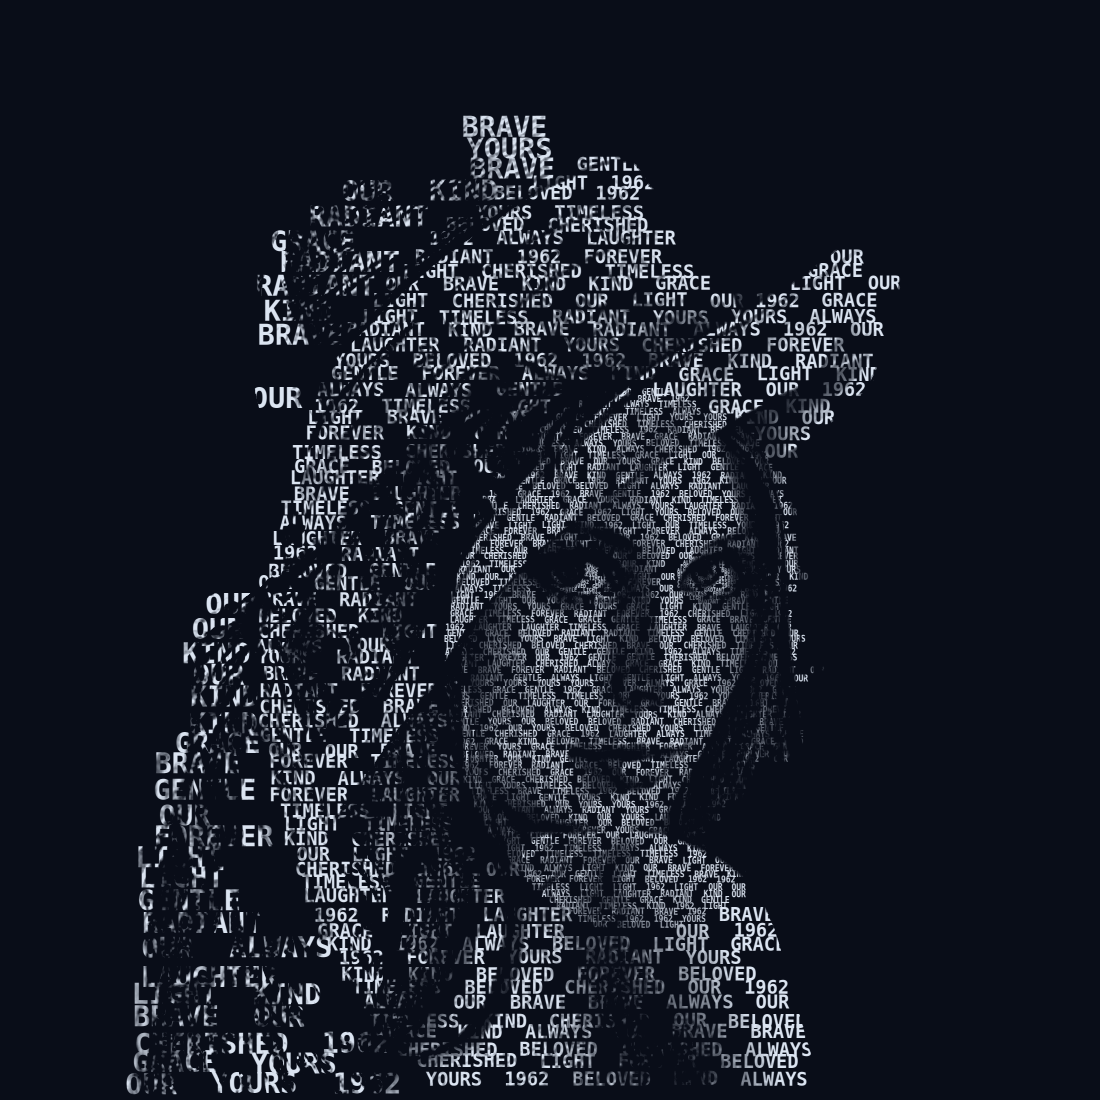
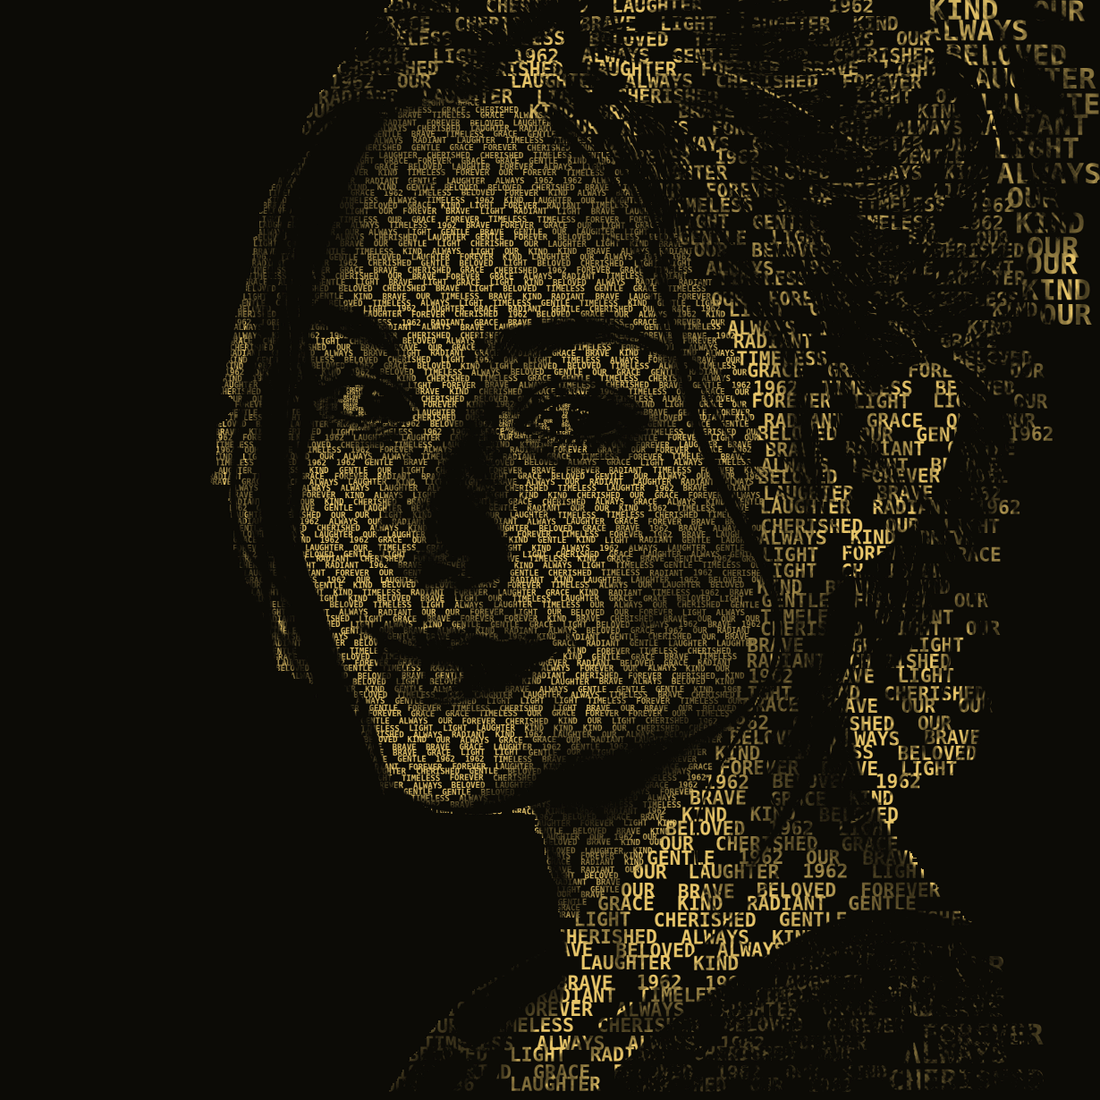
marketing: real gold-on-black hero, sample gallery, stronger CTAs
Replaces the placeholder hero pair with a true gold_noir (gold-on-black)
render generated from a synthetic source face, matched pixel-for-pixel to
the "before" photo at 1100x1100; quantised to ~460KB. Swaps the fabricated
testimonial cards for a "One photo, every style" sample gallery (sepia/Words,
burgundy/Words, navy/Message) that doubles as product proof. Surfaces "free
to create" in the nav + hero CTAs with price-confidence microcopy, adds a
post-gallery CTA, and gives the before/after slider a one-time auto-nudge
(respecting prefers-reduced-motion) so visitors notice it's draggable. Drops
the raw source face from the web tree.

https://claude.ai/code/session_01HgiQ2f3KUSvk9A2V5YSHrv

diff --git a/typography_engine/marketing/index.html b/typography_engine/marketing/index.html
@@ -85,6 +85,8 @@ footer{border-top:1px solid var(--line);padding:30px 0;color:var(--muted);font-s
 .ba-zoom:hover{background:rgba(11,16,32,.88)}
 .ba-cap{font-size:14px;color:var(--muted);margin-top:12px;text-align:center}
 .ba-cap b{color:var(--ink)}.ba-cap .w{color:var(--navy);font-weight:600}
+.cta-note{font-size:14px;color:var(--muted);margin-top:10px}
+.gallery .shot{margin:0}.gallery .shot img{width:100%;height:auto;display:block;border-radius:14px;box-shadow:0 10px 30px rgba(20,30,60,.12)}.gallery figcaption{font-size:13px;color:var(--muted);margin-top:9px;text-align:center}
 .ba-lb{position:fixed;inset:0;background:rgba(8,11,20,.93);display:none;align-items:center;justify-content:center;z-index:90;padding:20px;cursor:zoom-out}
 .ba-lb.open{display:flex}
 .ba-lb img{max-width:96vw;max-height:92vh;border-radius:10px;box-shadow:0 20px 70px rgba(0,0,0,.5)}
@@ -96,16 +98,17 @@ footer{border-top:1px solid var(--line);padding:30px 0;color:var(--muted);font-s
   <nav>
     <a class="brand" href="/">Typortrait</a>
     <span class="navlinks"><a href="#how">How it works</a><a href="#pricing">Pricing</a><a href="#faq">FAQ</a></span>
-    <a class="btn" href="https://app.typortrait.com">Create yours</a>
+    <a class="btn" href="https://app.typortrait.com">Create yours free</a>
   </nav>
   <header class="hero">
     <div>
       <h1>Someone you love, made from your words.</h1>
       <p class="lead">Typortrait turns a photo and the words that matter — a name, the traits you love, a date, even a whole letter — into a striking portrait composed entirely of text.</p>
       <div class="cta-row">
-        <a class="btn" href="https://app.typortrait.com">Create your portrait</a>
+        <a class="btn" href="https://app.typortrait.com">Create yours free &rarr;</a>
         <a class="btn alt" href="#how">See how it works</a>
       </div>
+      <p class="cta-note">Free to create &amp; preview &middot; $14.99 only if you download &middot; No design skills needed</p>
     </div>
     <figure class="hero-ba">
       <div class="ba-frame" id="baFrame">
@@ -156,15 +159,15 @@ footer{border-top:1px solid var(--line);padding:30px 0;color:var(--muted);font-s
     </div>
   </section>
 
-  <section id="love">
-    <h2>Loved by gift-givers</h2>
-    <p class="sub">A keepsake built from someone’s own words.</p>
-    <!-- EDIT: replace these with REAL customer quotes before launch. Do not keep placeholders live. -->
-    <div class="cards">
-      <div class="card quote"><p>“I gave it to my mom for her 70th and she cried — it’s her, in all the words we’d use to describe her.”</p><cite>— Placeholder, replace me</cite></div>
-      <div class="card quote"><p>“We turned our wedding vows into a portrait. It hangs in our hallway and everyone asks about it.”</p><cite>— Placeholder, replace me</cite></div>
-      <div class="card quote"><p>“Made one of our dog from the words the kids use for him. Absolutely perfect.”</p><cite>— Placeholder, replace me</cite></div>
+  <section id="examples">
+    <h2>One photo, every style</h2>
+    <p class="sub">The same face, a few different looks — for anniversaries, memorials, weddings, birthdays and more.</p>
+    <div class="cards gallery">
+      <figure class="shot"><img src="/sample-1.jpg" width="720" height="720" loading="lazy" alt="Typortrait sample — sepia, Words style" /><figcaption>Sepia &middot; Words</figcaption></figure>
+      <figure class="shot"><img src="/sample-2.jpg" width="720" height="720" loading="lazy" alt="Typortrait sample — burgundy, Words style" /><figcaption>Burgundy &middot; Words</figcaption></figure>
+      <figure class="shot"><img src="/sample-3.jpg" width="720" height="720" loading="lazy" alt="Typortrait sample — navy, Message style" /><figcaption>Navy &middot; Message</figcaption></figure>
     </div>
+    <div style="text-align:center;margin-top:24px"><a class="btn" href="https://app.typortrait.com">Make one like this &rarr;</a></div>
   </section>
   <div class="band">
     <h2>Make one in minutes</h2>
@@ -194,16 +197,22 @@ footer{border-top:1px solid var(--line);padding:30px 0;color:var(--muted);font-s
       bimg=document.getElementById('baBefore'),
       div=document.getElementById('baDivider'),
       after=document.getElementById('baAfter');
-  var drag=false;
+  var drag=false, interacted=false, nudged=false;
   function size(){ bimg.style.width=frame.clientWidth+'px'; }
   function setPos(p){ p=Math.max(0,Math.min(100,p)); wrap.style.width=p+'%'; div.style.left=p+'%'; }
   function move(e){ var r=frame.getBoundingClientRect(); var cx=e.touches?e.touches[0].clientX:e.clientX; setPos((cx-r.left)/r.width*100); }
-  frame.addEventListener('pointerdown',function(e){drag=true;move(e);});
+  function tween(to,ms){ var from=parseFloat(wrap.style.width)||50, st=performance.now();
+    (function f(now){ if(drag)return; var k=Math.min(1,(now-st)/ms); var e=k<.5?2*k*k:1-Math.pow(-2*k+2,2)/2; setPos(from+(to-from)*e); if(k<1)requestAnimationFrame(f); })(st); }
+  function nudge(){ if(nudged)return; nudged=true;
+    if(window.matchMedia&&matchMedia('(prefers-reduced-motion: reduce)').matches)return;
+    setTimeout(function(){ if(!interacted)tween(64,600); },700);
+    setTimeout(function(){ if(!interacted)tween(50,600); },1500); }
+  frame.addEventListener('pointerdown',function(e){drag=true;interacted=true;move(e);});
   window.addEventListener('pointermove',function(e){if(drag)move(e);});
   window.addEventListener('pointerup',function(){drag=false;});
   window.addEventListener('resize',size);
   if(after.complete){size();} else {after.addEventListener('load',size);}
-  size(); setPos(50);
+  size(); setPos(50); nudge();
   var lb=document.getElementById('baLb'), lbImg=document.getElementById('baLbImg'), zb=document.getElementById('baZoom');
   zb.addEventListener('pointerdown',function(e){e.stopPropagation();});
   zb.addEventListener('click',function(e){e.stopPropagation(); lbImg.src=after.getAttribute('src'); lb.classList.add('open');});
